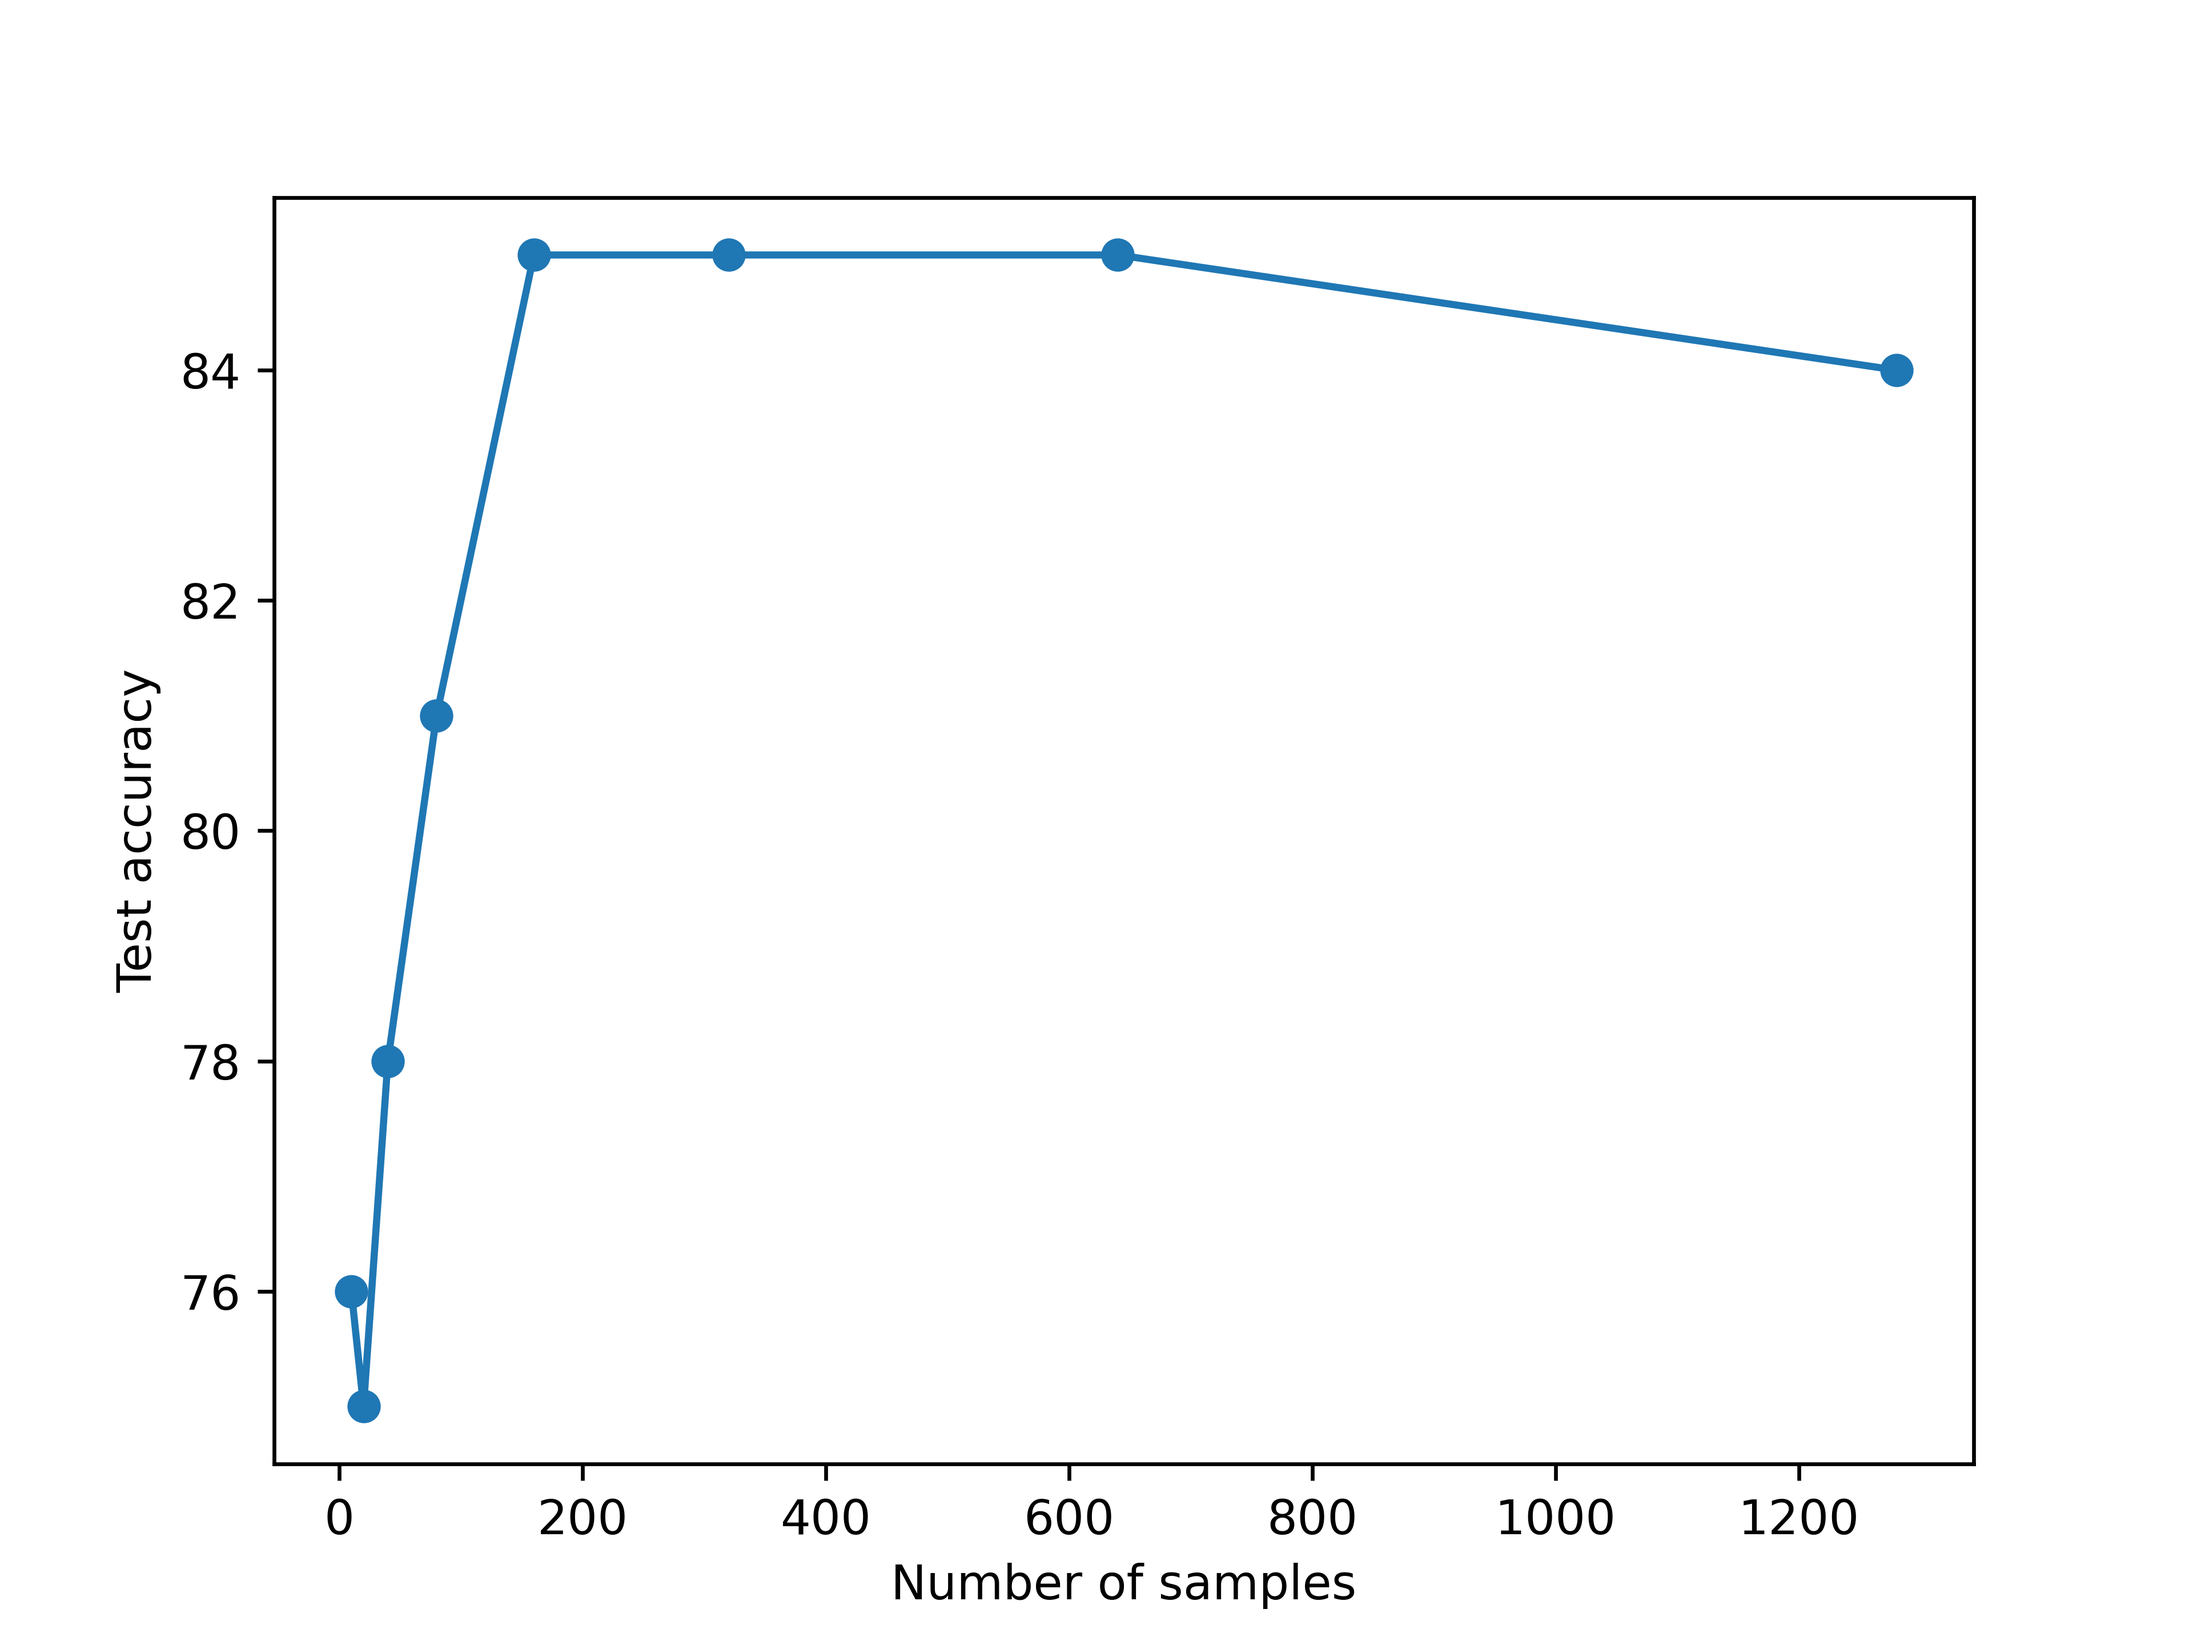
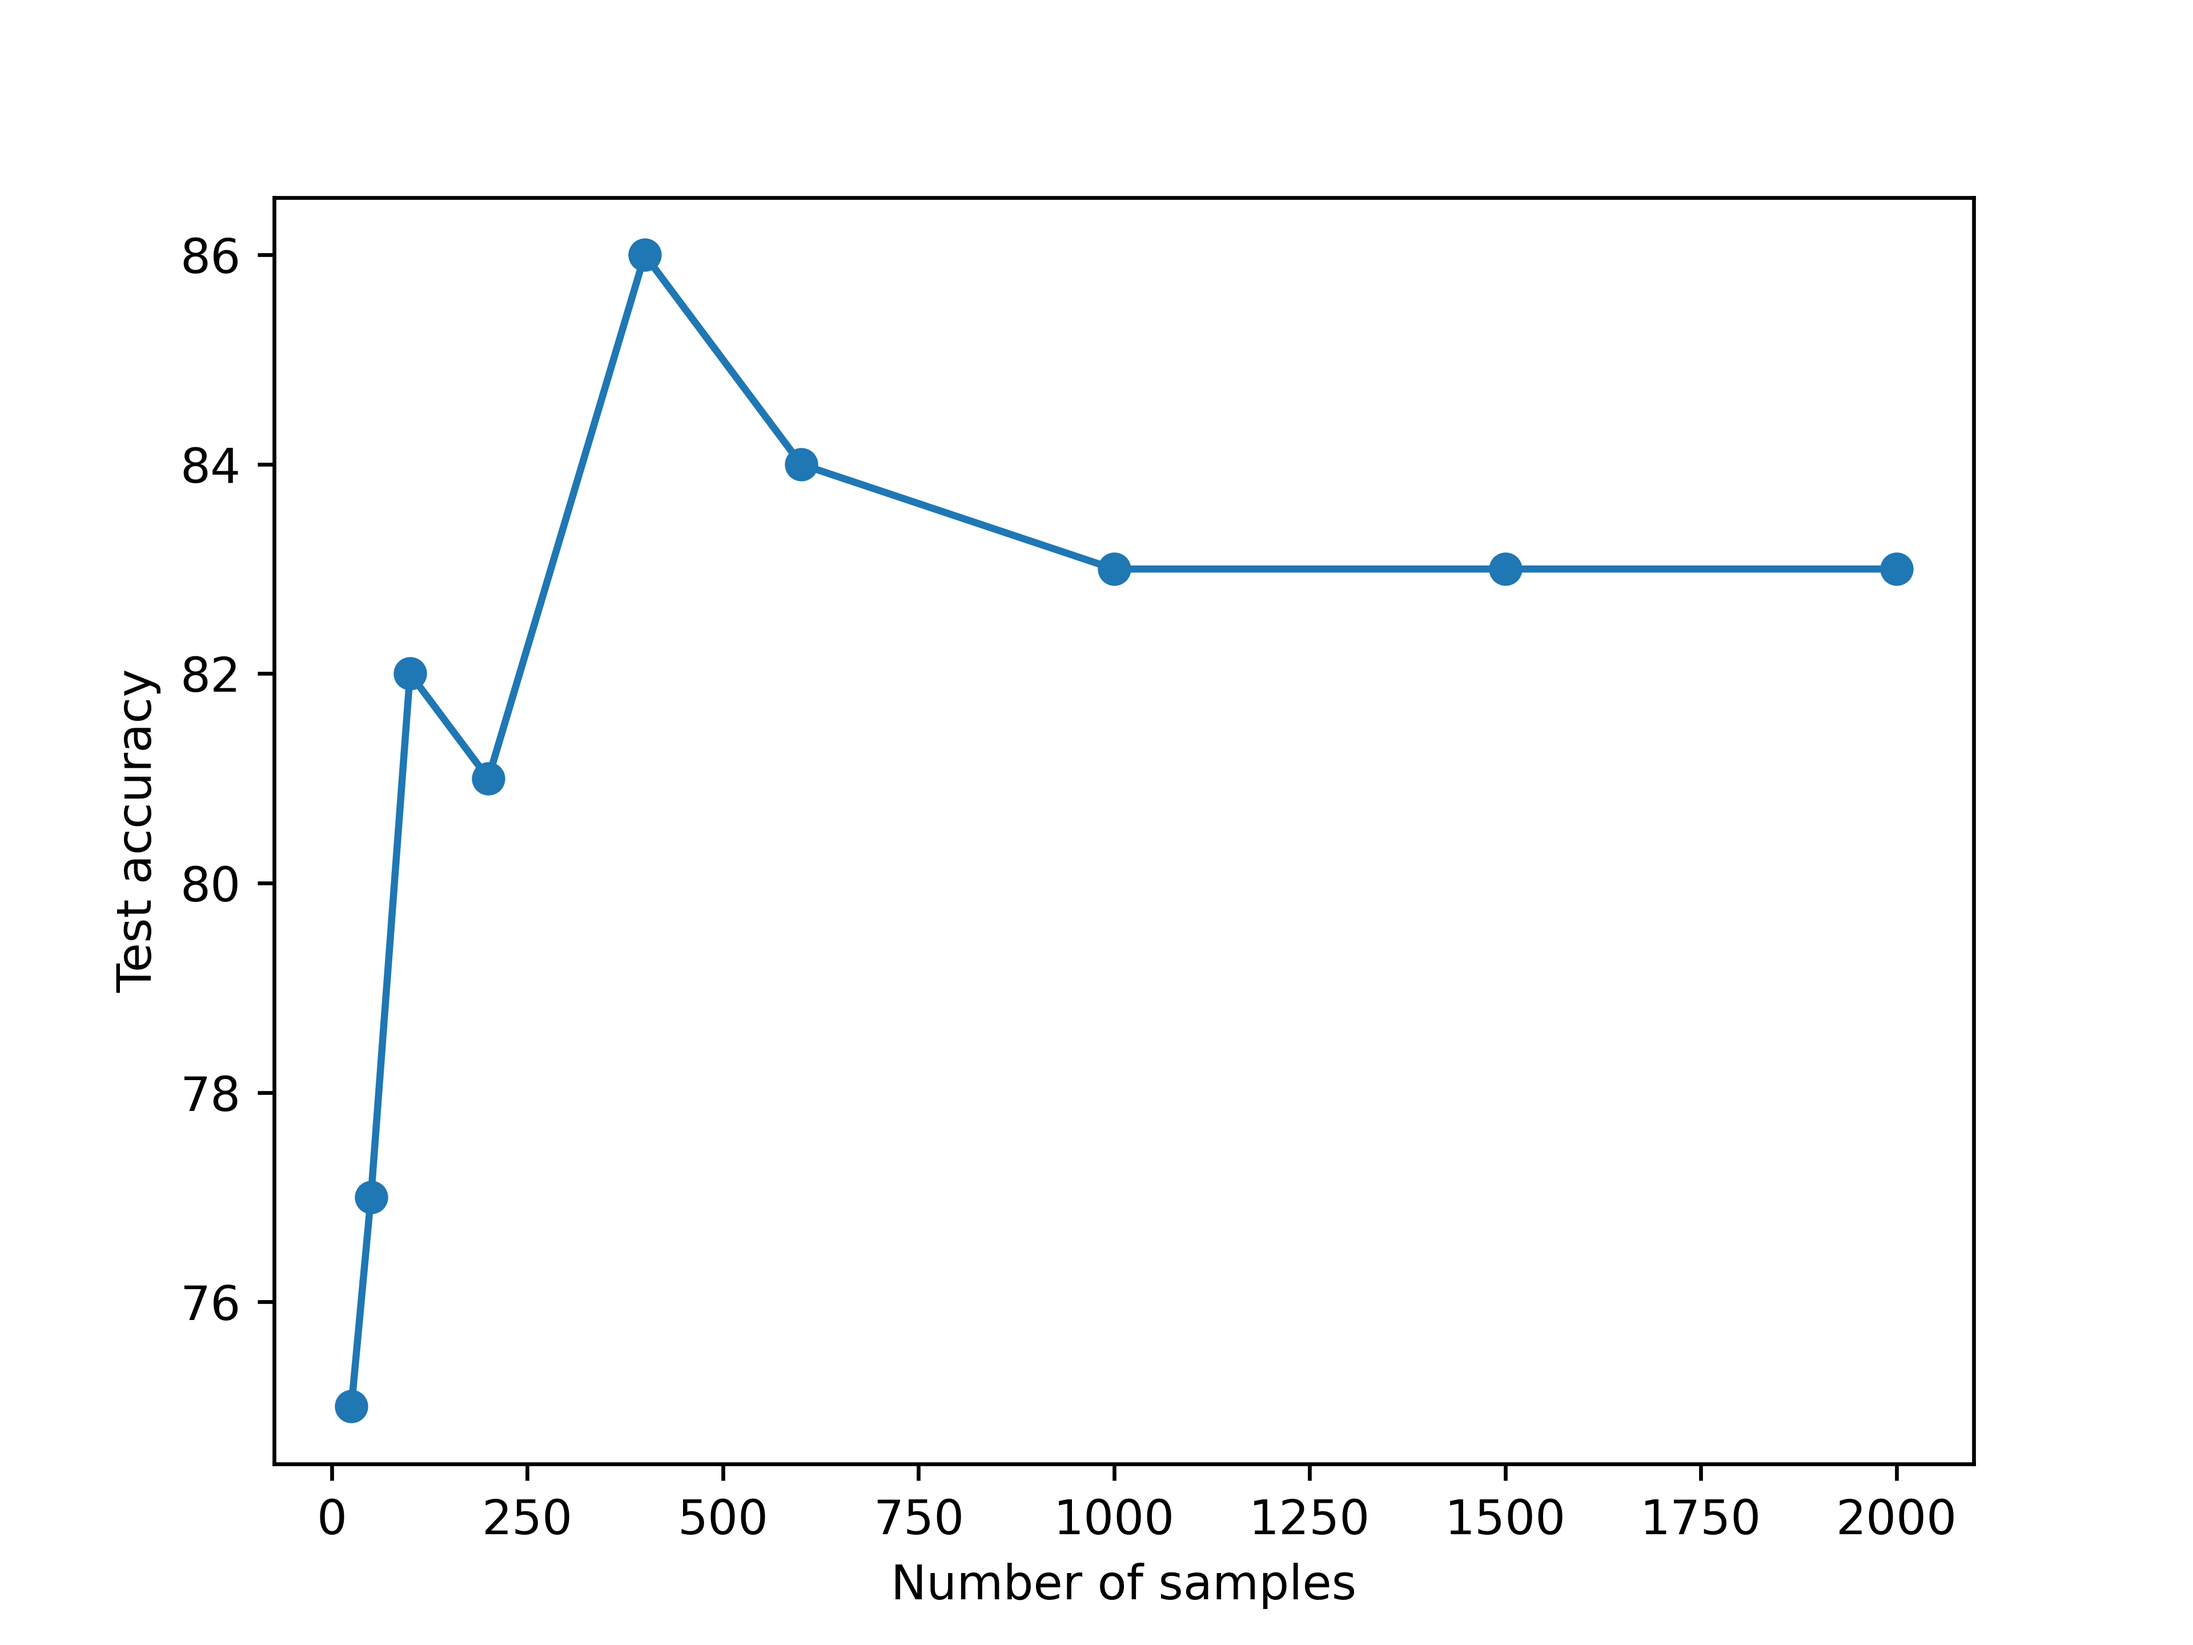
better data generated

diff --git a/examples/knapsack_sample_number.py b/examples/knapsack_sample_number.py
@@ -52,8 +52,6 @@ constraints = [a @ x <= b,
 # If you just want to remove too many messages
 # change INFO to WARNING
 problem = cp.Problem(cp.Minimize(cost), constraints)
-m = mlopt.Optimizer(problem,
-                    log_level=logging.INFO)
 
 
 # ## Define training and testing parameters
@@ -91,7 +89,7 @@ theta_test = sample(theta_bar, radius, n=n_test)
 
 # In[5]:
 
-n_train_set = np.array([10, 25, 50, 100, 200, 400, 600, 800, 1000, 1250, 1500])
+n_train_set = np.array([25, 50, 100, 200, 400, 600,  1000, 1500, 2000])
 
 n_train_accuracy = []
 n_train_subopt = []
@@ -99,6 +97,8 @@ n_train_subopt = []
 for n_train in n_train_set:
     theta_train = sample(theta_bar, radius, n=n_train)
 
+    m = mlopt.Optimizer(problem,
+                        log_level=logging.INFO)
     m.train(theta_train, learner=mlopt.XGBOOST)
     
     results = m.performance(theta_test)
@@ -106,8 +106,6 @@ for n_train in n_train_set:
     n_train_accuracy.append( results[0]['accuracy'])
     n_train_subopt.append( results[0]['avg_subopt'])
     
-n_train_accuracy = np.array(n_train_accuracy)
-n_train_subopt = np.array(n_train_subopt)
-
-np.savez("knapsack_sample_number_data.npz", n_train_set = n_train_set, n_train_accuracy = n_train_accuracy, n_train_subopt = n_train_subopt)
+    # update data on every iteration in case of failure
+    np.savez("knapsack_sample_number_data.npz", n_train_set = n_train_set, n_train_accuracy = n_train_accuracy, n_train_subopt = n_train_subopt)
     
